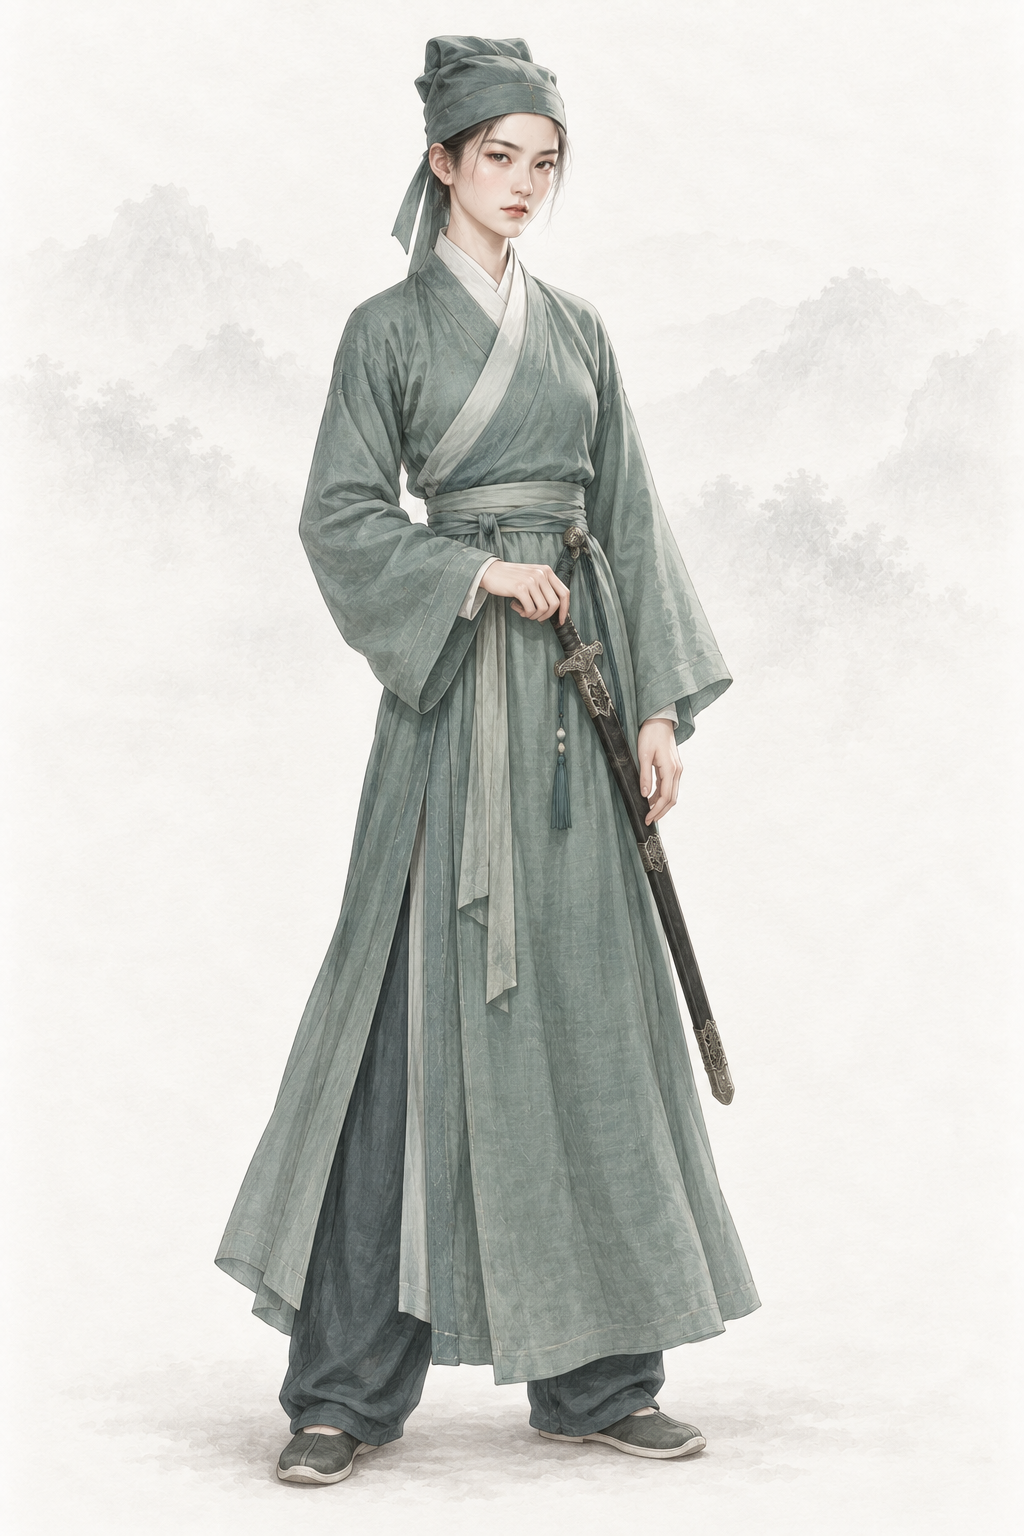
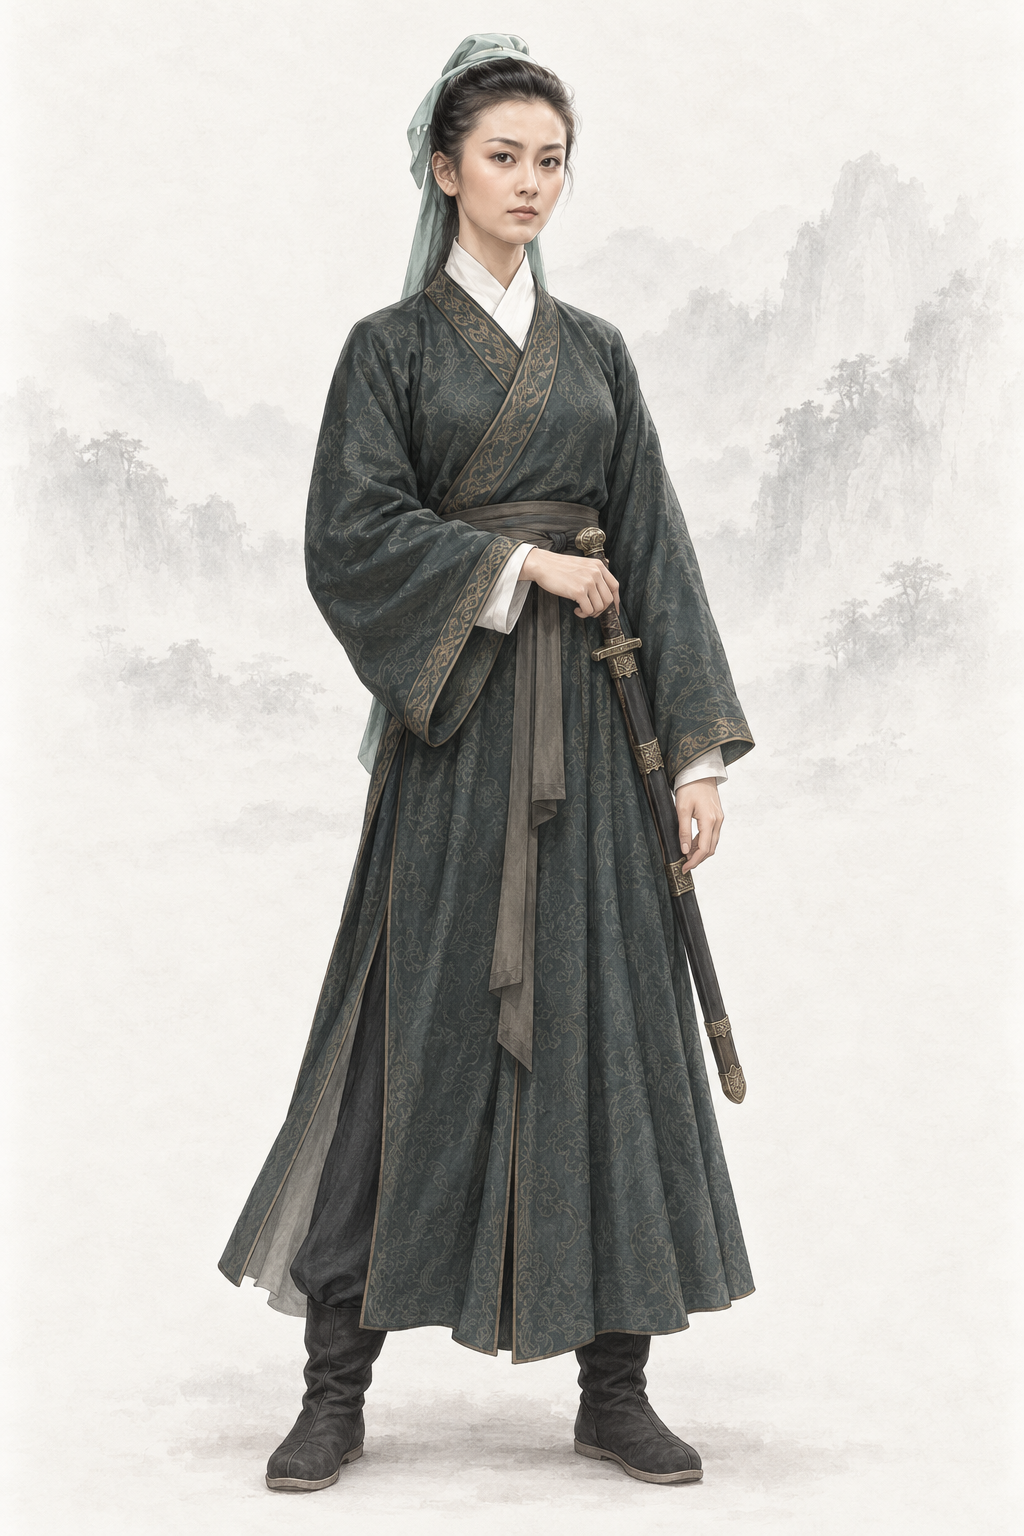
assets(character): por_npc_wenqingqing__ch07_youth_disguise_base 温青青（codex · AR-32 1985 TVB《碧血剑》 剧照 + 基线）
上传顺序：第 1–2 张为 1985 TVB《碧血剑》温青青剧照（wenqingqing_1985_zhuangjinger_sina2.jpg 为男装扮相；sina1.jpg 为女装，只取五官），最后两张为同性别基线；提示词写回、frontmatter 加 classic_ref。

diff --git a/assets/default/prompts/characters/ch07-bixue/npc_wenqingqing.md b/assets/default/prompts/characters/ch07-bixue/npc_wenqingqing.md
@@ -13,9 +13,17 @@ references:
     use: 本工作区 manifest 为 approved；仅参考纸底、光线、笔触与设色，不沿用脸、体型、服饰和道具
 status: new
 redo_reason: "碧血剑女主角缺基础立绘（只有一张场景图）；按原著“女扮男装的俊俏公子、刁蛮倔强”从文字新建。"
-reference_upload:
-- assets/default/baseline/character/female/ref_npc_wangyuyan__ch01_base01.png
 codex_prompt_rev: 2026-10-02
+reference_upload:
+- .agents/coord/imagegen-reference/identity-20261002/bixue/wenqingqing_1985_zhuangjinger_sina2.jpg
+- .agents/coord/imagegen-reference/identity-20261002/bixue/wenqingqing_1985_zhuangjinger_sina1.jpg
+- assets/default/baseline/character/female/ref_npc_wangyuyan__ch01_base01.png
+- assets/default/baseline/character/female/ref_npc_xiaolongnv__ch03_base01.png
+classic_ref:
+  version: 1985 TVB《碧血剑》
+  stills:
+  - .agents/coord/imagegen-reference/identity-20261002/bixue/wenqingqing_1985_zhuangjinger_sina2.jpg
+  - .agents/coord/imagegen-reference/identity-20261002/bixue/wenqingqing_1985_zhuangjinger_sina1.jpg
 ---
 
 <!-- full-coverage-import:current-policy:v1 -->
@@ -28,6 +36,28 @@ codex_prompt_rev: 2026-10-02
 # 温青青 · 《碧血剑》（ch07）
 
 ## Gemini 提示词
+
+> 2026-10-02 AR-32 重出（8 号出图员，codex exec · image_gen）：主要角色参考经典造型加项目基线生成。上传顺序：第 1–2 张为 1985 TVB《碧血剑》温青青剧照（wenqingqing_1985_zhuangjinger_sina2.jpg 为男装扮相；sina1.jpg 为女装，只取五官），最后两张为同性别画风基线（缩小版 JPEG）。参考图只借造型、气质与面部特征，画面按项目画风重绘、不复制照片或像素图。上一版保留在下一节作历史。
+
+```text
+生成一张 2:3 竖幅全身人物立绘：单人、单一视角、完整全身——头顶、双手、双脚和手中器物的两端都在画面内，四周留出自然空白；人物站姿自然，身体基本朝向正面，头部端正（不歪头、不仰不俯），镜头平视。
+【参考图】第 1–2 张参考图是该角色经典影视造型的剧照：借鉴其发型、服饰、配色、标志道具、气质和面部特征，让人一眼认出是这个角色；但必须重新绘制成项目画风，不要照片质感，不要照搬剧照的构图、光影、背景和姿势，也不要做成照片修图。最后两张是本项目画风基线：画风、用色、光线、质感和暖浅灰纸底加淡水墨背景以它们为准。
+【剧照借鉴要点】第 1 张是她女扮男装的样子：取那块浅青绿色的书生头巾（把头发全包住，脑后垂着巾带）、深色织锦长衫配白色护领；第 2 张是她的女装样子，只取她的五官和倔强的神情，不取女装发型和衣服。姿势和构图按下文的全身立绘来画，不照搬剧照。
+【画风】写实手绘古风人物插画，与本项目写实武侠角色立绘同一画风，像功力深厚的画师用细腻笔触画出的真实人物。手绘插画质感，不是 CG 渲染：不要过度光滑的皮肤、完美对称的五官、塑料高光、过度锐利的发丝；保留自然的笔触和细微不完美。皮肤有真实质感——细小毛孔、细纹、晒痕和自然的左右不对称，不磨皮、不油亮；头发是一缕缕自然的发丝和少量碎发；布料看得出经纬纹理、厚薄和自然垂坠的褶皱，带穿用过的轻微旧化，但完整不破烂；整体设色低饱和、沉稳；柔和的自然光从左上方照来，明暗过渡自然，不打舞台光、轮廓光或美颜柔光。不是照片，不是三维渲染，不是动漫或游戏 CG，也不是油画（没有厚涂笔触和画布纹理）。
+【背景】不透明的暖浅灰色纸底，只在远处有极淡的水墨远山和薄雾，大面积留白；人物与背景明暗分明、轮廓边缘干净完整（后续要自动抠图），水墨和纸纹只在背景里，不侵入人物和衣服；脚下只有很淡的一点接触阴影。
+【人物】温青青（夏青青），《碧血剑》女主角，「金蛇郎君」夏雪宜与温仪的女儿，在石梁温家长大；初遇袁承志时女扮男装、自称「温青」的时期（明末崇祯年间）。
+【年龄与体态】约二十岁的成年年轻女子，身材纤细轻捷但为成人比例；宽松的男装自然遮住身形。
+【经典造型】八十年代经典港剧里女扮男装的「温公子」：浅青绿书生头巾、深青色织锦男式长衫、腰佩长剑；俊俏得过分，细看眉眼秀美、分明是美丽的女子；娇蛮倔强、灵气逼人。
+【面容】按剧照：秀气的鹅蛋脸、下颌线利落；皮肤白皙细腻（有真实质感）；眉毛细长而英挺上扬（为扮男子刻意描得略浓）；眼睛明亮敏锐、眼尾微挑，眼神里有倔强、骄傲和一点刁蛮；鼻梁秀挺；嘴唇薄，嘴角带着不服气的小脾气。远看像个俊美得过分的少年公子，细看才知是女子。
+【发式】黑发全部盘到头顶成男子发髻，用一块浅青绿色的书生头巾整个包住，脑后垂着两条巾带；鬓边、脑后看不到长发；不戴任何女子首饰。
+【服饰】深青色暗纹织锦男式交领长衫（右衽，左襟压右襟），白色护领，衣缘有暗金色细纹边；深色长裤；素色腰带；平底布靴。
+【道具】腰间左侧佩一柄连鞘长剑，右手轻扶剑柄，左手自然下垂。
+【姿态与神情】挺拔站立，带一点傲气和不服气。
+【不要】画面里不要任何文字、题款、印章、签名、水印、边框、分格或多视图；不要第二个人；不要幼态（童颜、娃娃脸、婴儿肥、儿童或少年身材、大头小身）；不要塑料感皮肤、磨皮美颜、网红脸（尖下巴大眼高鼻的模板脸）、过度对称、浓妆、偶像式打光、蜡像感；不要照片质感，不要像剧照照片、照片修图或拼贴，不要照搬剧照的背景、光影、构图和姿势；不要三维渲染或动漫大眼；不要歪头、斜镜头；不要多指、缺指（设定的伤残除外）、手与器物粘连或悬空；衣襟必须右衽（穿着者的左襟压在右襟上），不要左衽（设定为少数民族服制的除外），不要水平镜像；不要现代物品、发光特效、法阵或能量光。不要女性化的发髻、首饰与胭脂；不要画成真正的男人；不要大眼网红脸；不要少女幼态；不要清代剃发留辫。
+【画风基线】随提示词上传的参考图里，最后两张是本项目的立绘画风基线：只参考它们的画风、用色、光线、质感和暖浅灰纸底加淡水墨的背景处理，整体画风必须与它们一致——精细写实的数字手绘插画，不是油画，不要厚涂笔触和画布纹理。基线图只取画风，不取长相：不要照搬基线图里人物的长相、年龄、发型、服饰和姿势。
+```
+
+## AR-31 文字版 Gemini 提示词（2026-10-02 凌晨；AR-32 重出之前，历史，不再用于出图）
 
 > 2026-10-02 Codex 人物线 2 号（AR-31）：在审核组稿上补一行「经典形象」（借鉴公认经典造型的发式、装束、配色、标志道具与气质，只写文字，不写演员名、不上传剧照），并补去 AI 化要求。本轮出图用下面第一个代码块；审核组原稿保留在其后的「审核组原稿」小节作历史。
 
